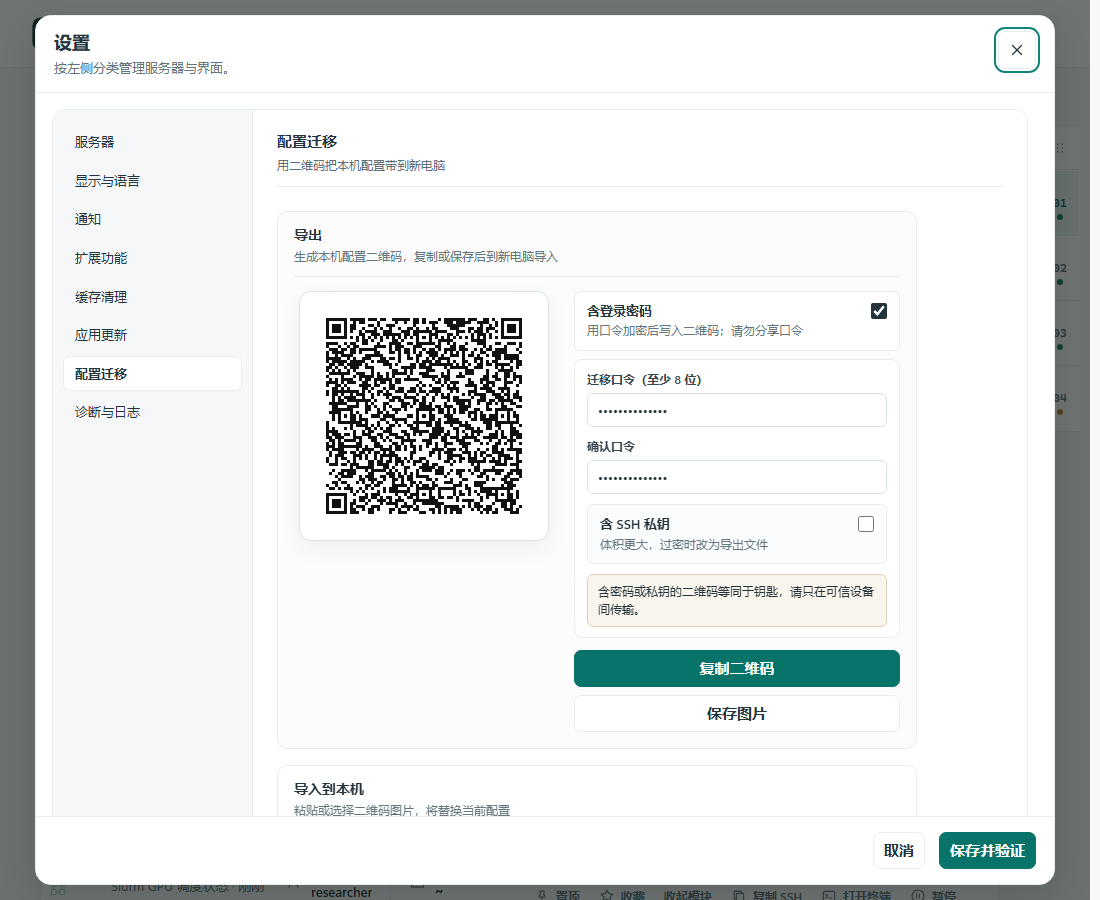
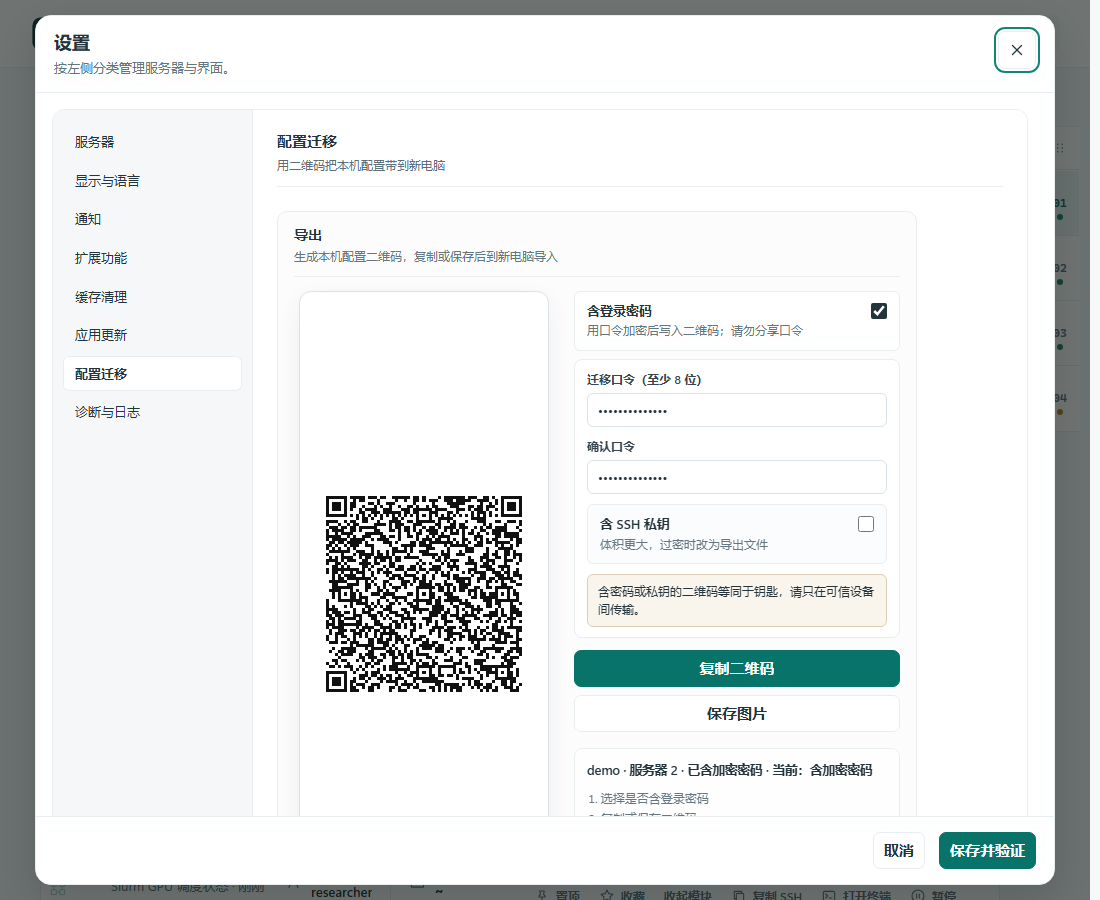
Fill migrate export sidebar with summary and steps.
Add a right-column aside under Copy/Save: live config summary, three short
transfer steps, and a quiet refresh hint. Keeps the two-card layout.

diff --git a/src/vram_radar/web/app.js b/src/vram_radar/web/app.js
@@ -115,6 +115,7 @@ const ui = {
   migrateImportPassWrap: document.getElementById('migrate-import-pass-wrap'),
   migrateImportPassphrase: document.getElementById('migrate-import-passphrase'),
   migratePrivacy: document.getElementById('migrate-privacy'),
+  migrateSummary: document.getElementById('migrate-summary'),
   migrateImportStatus: document.getElementById('migrate-import-status'),
   serverSettingsHeading: document.getElementById('server-settings-heading'),
   closeSettings: document.getElementById('close-settings'),
@@ -5296,6 +5297,7 @@ let lastMigrateFileText = '';
 let lastMigrateFileName = '';
 let lastMigrateQrReady = false;
 let lastMigrateIncludesSecrets = false;
+let lastMigratePreview = null;
 
 function setMigrateStatus(el, message, {error = false} = {}) {
   if (!el) return;
@@ -5331,6 +5333,7 @@ function syncMigrateSecretFields() {
         : localizedText('已含加密密码'))
       : localizedText('默认不含登录密码与私钥');
   }
+  updateMigrateSummary(lastMigratePreview);
 }
 
 function readMigrateExportPassphrase() {
@@ -5434,6 +5437,28 @@ async function saveMigrateQrImage() {
   return true;
 }
 
+
+function updateMigrateSummary(preview) {
+  if (!ui.migrateSummary) return;
+  if (preview && typeof preview === 'object') {
+    lastMigratePreview = preview;
+  }
+  const p = lastMigratePreview;
+  if (!p || typeof p !== 'object') {
+    ui.migrateSummary.textContent = migrateWantsSecrets()
+      ? localizedText('设置口令后生成含密码二维码')
+      : localizedText('正在准备本机配置…');
+    return;
+  }
+  const line = formatMigratePreview(p);
+  const mode = migrateWantsSecrets()
+    ? (migrateWantsKeys()
+      ? localizedText('当前：含加密密码与私钥')
+      : localizedText('当前：含加密密码'))
+    : localizedText('当前：不含密码与私钥');
+  ui.migrateSummary.textContent = [line, mode].filter(Boolean).join(' · ');
+}
+
 function formatMigratePreview(preview) {
   if (!preview || typeof preview !== 'object') return '';
   const parts = [];
@@ -5463,6 +5488,7 @@ async function generateMigrateExport({forceFile = false} = {}) {
     lastMigrateFileText = String(result.file_text || '');
     lastMigrateFileName = String(result.file_name || 'vramradar-migrate.vramradar-migrate');
     lastMigrateIncludesSecrets = Boolean(result.includes_secrets);
+    updateMigrateSummary(result.preview || null);
     const previewLine = formatMigratePreview(result.preview);
     if (ui.migrateExportFile) ui.migrateExportFile.hidden = Boolean(result.qr_eligible);
     if (result.qr_eligible && lastMigrateToken) {

diff --git a/src/vram_radar/web/localization.js b/src/vram_radar/web/localization.js
@@ -754,6 +754,16 @@
     ['未导出密码', 'Passwords not exported'],
     ['含加密密码', 'Encrypted passwords'],
     ['用二维码把本机配置带到新电脑', 'Move this computer\'s config with a QR code'],
+    ['正在准备本机配置…', 'Preparing this computer\'s config…'],
+    ['设置口令后生成含密码二维码', 'Set a passphrase to build a sealed QR code'],
+    ['当前：不含密码与私钥', 'Now: passwords and keys omitted'],
+    ['当前：含加密密码', 'Now: sealed passwords included'],
+    ['当前：含加密密码与私钥', 'Now: sealed passwords and keys included'],
+    ['选择是否含登录密码', 'Choose whether to include login passwords'],
+    ['复制或保存二维码', 'Copy or save the QR code'],
+    ['在新电脑粘贴或导入', 'Paste or import it on the new computer'],
+    ['更改上方选项后，二维码会自动更新', 'The QR code refreshes when you change the options above'],
+    ['导出说明', 'Export tips'],
     ['服务器与界面偏好，不含密码', 'Servers and preferences; passwords omitted'],
     ['导出', 'Export'],
     ['同时导出已保存的登录密码', 'Also export saved login passwords'],
@@ -880,6 +890,16 @@
     ['未导出密码', 'Passwords not exported'],
     ['含加密密码', 'Encrypted passwords'],
     ['用二维码把本机配置带到新电脑', 'Move this computer\'s config with a QR code'],
+    ['正在准备本机配置…', 'Preparing this computer\'s config…'],
+    ['设置口令后生成含密码二维码', 'Set a passphrase to build a sealed QR code'],
+    ['当前：不含密码与私钥', 'Now: passwords and keys omitted'],
+    ['当前：含加密密码', 'Now: sealed passwords included'],
+    ['当前：含加密密码与私钥', 'Now: sealed passwords and keys included'],
+    ['选择是否含登录密码', 'Choose whether to include login passwords'],
+    ['复制或保存二维码', 'Copy or save the QR code'],
+    ['在新电脑粘贴或导入', 'Paste or import it on the new computer'],
+    ['更改上方选项后，二维码会自动更新', 'The QR code refreshes when you change the options above'],
+    ['导出说明', 'Export tips'],
     ['服务器与界面偏好，不含密码', 'Servers and preferences; passwords omitted'],
     ['导出', 'Export'],
     ['同时导出已保存的登录密码', 'Also export saved login passwords'],

diff --git a/src/vram_radar/web/app.css b/src/vram_radar/web/app.css
@@ -1822,7 +1822,7 @@ html::-webkit-scrollbar-button, .dialog-content::-webkit-scrollbar-button, .serv
   display: grid;
   grid-template-columns: minmax(220px, 260px) minmax(0, 1fr);
   gap: 16px 20px;
-  align-items: start;
+  align-items: stretch;
 }
 .settings-pane-migrate .migrate-qr-column {
   display: grid;
@@ -1852,10 +1852,50 @@ html::-webkit-scrollbar-button, .dialog-content::-webkit-scrollbar-button, .serv
   image-rendering: pixelated;
 }
 .settings-pane-migrate .migrate-side-column {
-  display: grid;
+  display: flex;
+  flex-direction: column;
   gap: 12px;
-  align-content: start;
   min-width: 0;
+  min-height: 100%;
+}
+.settings-pane-migrate .migrate-aside {
+  margin-top: auto;
+  display: grid;
+  gap: 10px;
+  padding: 12px 12px 10px;
+  border: 1px solid var(--border);
+  border-radius: 8px;
+  background: color-mix(in srgb, var(--surface) 88%, var(--surface-2));
+  box-sizing: border-box;
+}
+.settings-pane-migrate .migrate-summary {
+  margin: 0;
+  color: var(--text);
+  font-size: 12.5px;
+  font-weight: 600;
+  line-height: 1.45;
+}
+.settings-pane-migrate .migrate-steps {
+  margin: 0;
+  padding: 0 0 0 1.15em;
+  color: var(--muted);
+  font-size: 12px;
+  line-height: 1.55;
+}
+.settings-pane-migrate .migrate-steps li {
+  margin: 0 0 2px;
+}
+.settings-pane-migrate .migrate-aside-hint {
+  margin: 0;
+  padding-top: 8px;
+  border-top: 1px solid color-mix(in srgb, var(--border) 80%, transparent);
+  color: var(--muted);
+  font-size: 11.5px;
+  line-height: 1.45;
+  font-weight: 450;
+}
+.settings-pane-migrate .migrate-panel-body.is-compact .migrate-aside {
+  margin-top: 4px;
 }
 .settings-pane-migrate .migrate-options {
   display: grid;

diff --git a/src/vram_radar/web/index.html b/src/vram_radar/web/index.html
@@ -299,6 +299,15 @@
                         <button id="migrate-save-image" class="button" type="button">保存图片</button>
                         <button id="migrate-export-file" class="button" type="button" hidden>导出文件</button>
                       </div>
+                      <aside class="migrate-aside" aria-label="导出说明">
+                        <p id="migrate-summary" class="migrate-summary">正在准备本机配置…</p>
+                        <ol class="migrate-steps">
+                          <li>选择是否含登录密码</li>
+                          <li>复制或保存二维码</li>
+                          <li>在新电脑粘贴或导入</li>
+                        </ol>
+                        <p class="migrate-aside-hint">更改上方选项后，二维码会自动更新</p>
+                      </aside>
                     </div>
                   </div>
                 </section>

diff --git a/tools/render_settings_shots.py b/tools/render_settings_shots.py
@@ -81,6 +81,9 @@ window.addEventListener('load', () => setTimeout(() => {
     if (status) { status.hidden = true; status.textContent = ''; status.classList.remove('is-error'); }
     if (fileBtn) fileBtn.hidden = true;
     if (typeof syncMigrateSecretFields === 'function') syncMigrateSecretFields();
+    if (typeof updateMigrateSummary === 'function') {
+      updateMigrateSummary({display_name: 'demo', server_count: 2, includes_secrets: false});
+    }
     window.VRAMRadarI18n?.localizeTree?.(document.body);
   }, 400);
   const stack = document.getElementById('profile-settings');
@@ -130,6 +133,9 @@ window.addEventListener('load', () => setTimeout(() => {
     if (pass) pass.value = 'demo-pass-word';
     if (confirm) confirm.value = 'demo-pass-word';
     if (typeof syncMigrateSecretFields === 'function') syncMigrateSecretFields();
+    if (typeof updateMigrateSummary === 'function') {
+      updateMigrateSummary({display_name: 'demo', server_count: 2, includes_secrets: true});
+    }
     if (typeof drawMigrateQr === 'function') {
       const drew = drawMigrateQr(demoToken);
       if (typeof lastMigrateQrReady !== 'undefined') lastMigrateQrReady = drew;
